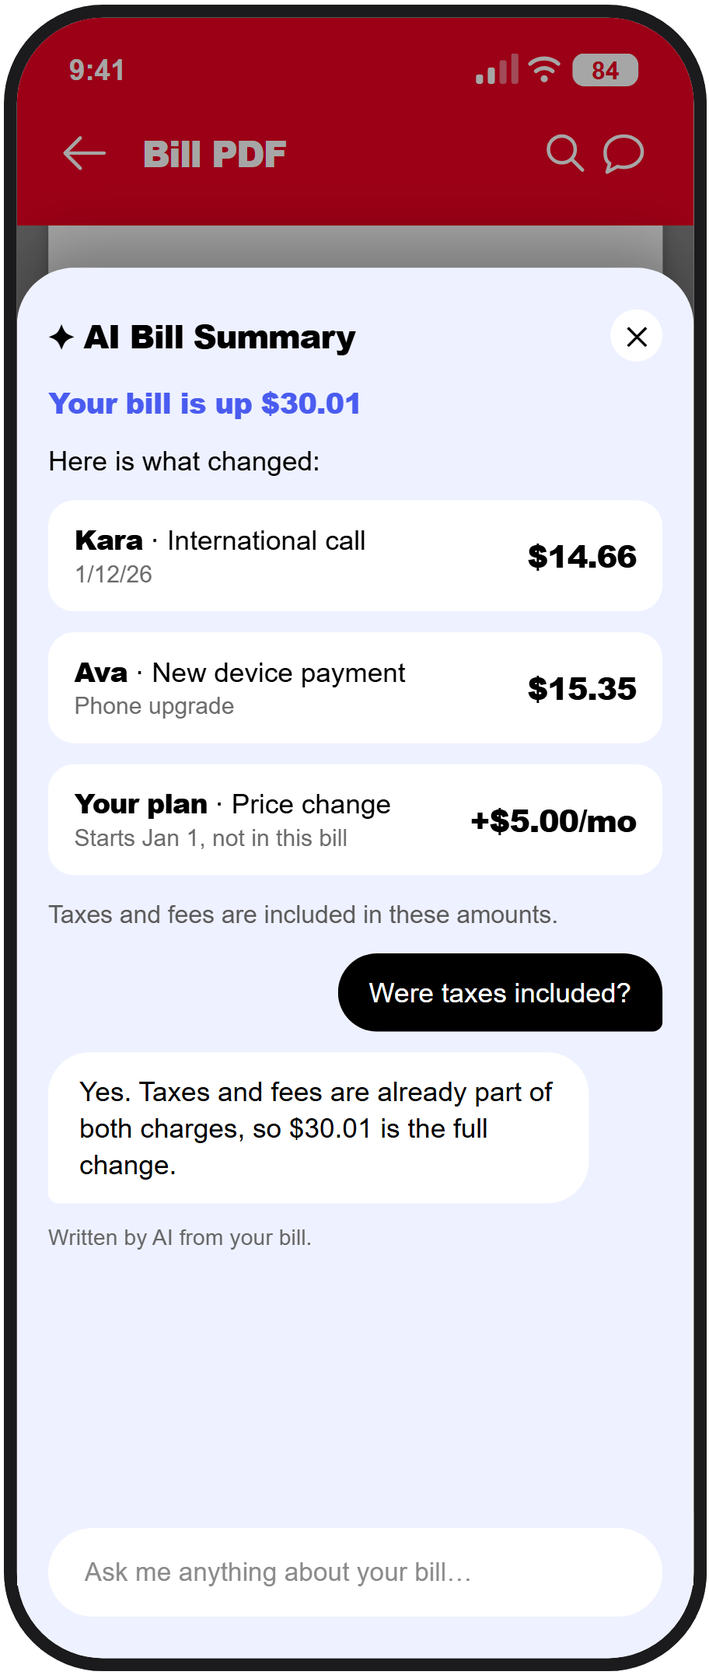
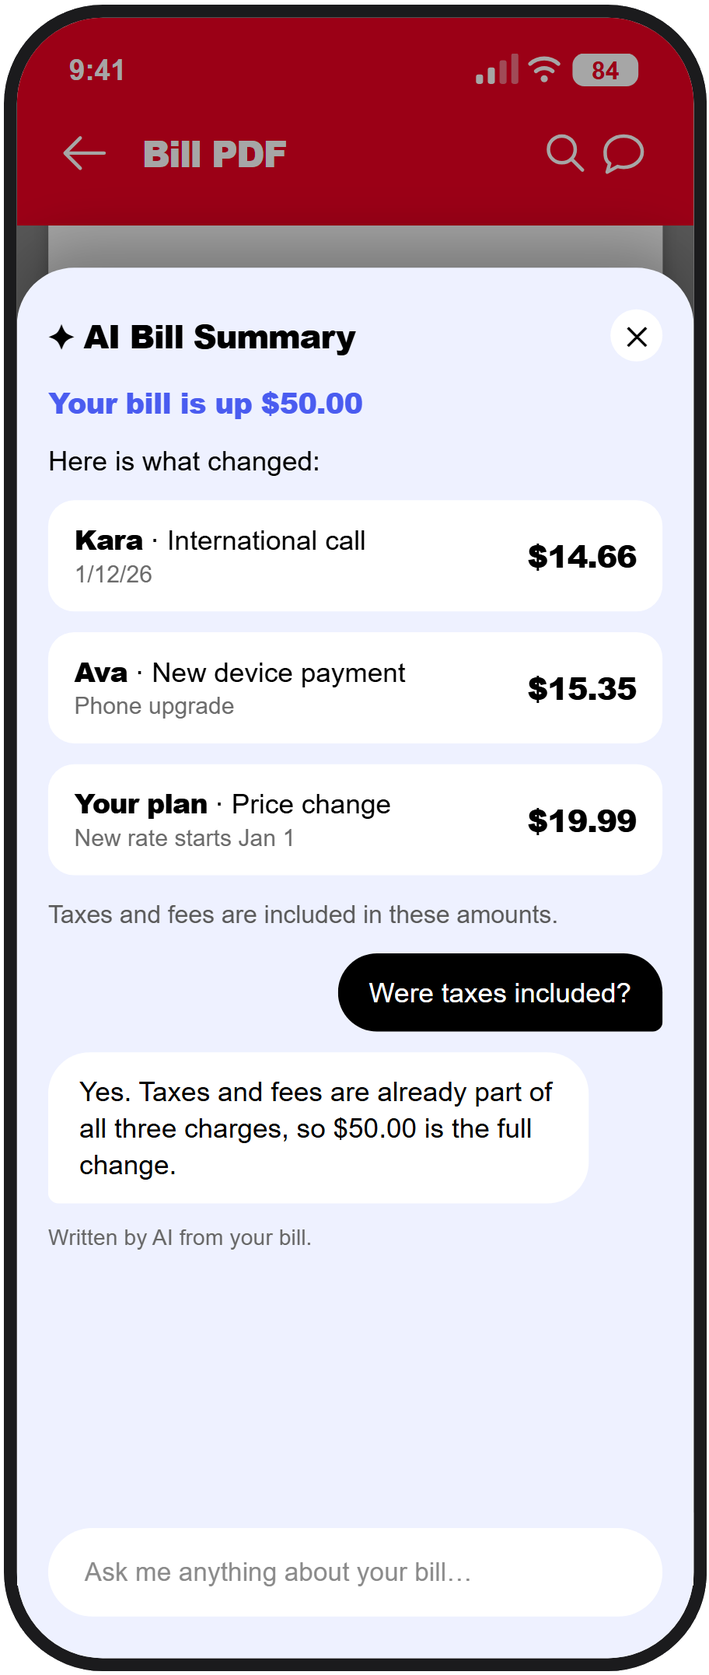
Bill increase now \.00 with January plan price change
Copilot-Session: d03eeb52-1bb5-4adc-a6b2-1b01bb792acd

diff --git a/verizon.html b/verizon.html
@@ -19,7 +19,7 @@
   <a class="back" href="index.html#work">← All work</a>
   <p class="eyebrow" style="margin-top:2rem">Verizon · AI · Telecom · Sponsored project</p>
   <h1 class="split">Explaining the bill: AI for billing transparency</h1>
-  <p class="summary reveal">"Why is this bill $30 more than last month?" Customers can't get a simple answer from phone providers today. The AI Bill Summary explains each change in plain language, and 87.5% of testers were satisfied.</p>
+  <p class="summary reveal">"Why is this bill $50 more than last month?" Customers can't get a simple answer from phone providers today. The AI Bill Summary explains each change in plain language, and 87.5% of testers were satisfied.</p>
 
   <dl class="meta reveal">
     <div><dt>Role</dt><dd>Project manager &amp; UX researcher</dd></div>
@@ -34,13 +34,13 @@
   <h2 class="reveal">Overview</h2>
   <div class="ov-split">
   <div><p class="reveal">Verizon customers struggle to find billing details, make sense of the numbers, and get past the jargon. A team of seven interdisciplinary designers (UX, UI and more) partnered with Verizon's Experience Design team to answer one question: <b>how can AI improve the way customers understand their bill?</b></p><p class="reveal">Over 16 weeks the team researched the problem across four carriers, designed an AI-powered bill experience, and tested it with 16 people in a Figma prototype. The work moved from open exploration to one focused bet: make the bill explain itself.</p></div>
-  <div class="ovs reveal" role="img" aria-label="Today the Verizon bill shows $262.82 with no explanation of the change. The goal is a bill that explains an increase of $30.01 in plain language."><div class="ovp"><div class="ovh"><div><small>Verizon today</small><h5>Your bill</h5></div></div><div class="ovl"><span>Total due<em>$262.82</em></span><span>Change from last month<em>Not explained</em></span><span class="no">Plain-language summary<em>Not available</em></span></div></div><div class="ovarr" aria-hidden="true"><i></i></div><div class="ovp on"><div class="ovh"><div><small>The goal</small><h5>A bill that explains itself</h5></div></div><div class="ovr"><span class="k">What changed</span><span class="v">+$30.01 from last month</span><span class="chip">Explained</span></div><div class="ovr"><span class="k">Why</span><span class="v">International call and a new device payment</span><span class="chip">Plain language</span></div><div class="ovr"><span class="k">Who</span><span class="v">Kara's line, +$14.66</span><span class="chip ok">Per member</span></div><div class="ovf">One tap from the home screen to the answer.</div></div></div>
+  <div class="ovs reveal" role="img" aria-label="Today the Verizon bill shows $282.81 with no explanation of the change. The goal is a bill that explains an increase of $50.00 in plain language."><div class="ovp"><div class="ovh"><div><small>Verizon today</small><h5>Your bill</h5></div></div><div class="ovl"><span>Total due<em>$282.81</em></span><span>Change from last month<em>Not explained</em></span><span class="no">Plain-language summary<em>Not available</em></span></div></div><div class="ovarr" aria-hidden="true"><i></i></div><div class="ovp on"><div class="ovh"><div><small>The goal</small><h5>A bill that explains itself</h5></div></div><div class="ovr"><span class="k">What changed</span><span class="v">+$50.00 from last month</span><span class="chip">Explained</span></div><div class="ovr"><span class="k">Why</span><span class="v">International call and a new device payment</span><span class="chip">Plain language</span></div><div class="ovr"><span class="k">Who</span><span class="v">Kara, Ava and your plan</span><span class="chip ok">Per member</span></div><div class="ovf">One tap from the home screen to the answer.</div></div></div>
   </div>
 
   <h2 class="reveal">The Problem</h2>
   <div class="problem-split">
   <p class="reveal">Verizon bills mix taxes, device payments, and one-time fees, and customers can't tell what changed or why. Confusion leads to frustration and support calls. The AI help that exists today gives generic answers that aren't tied to the bill and sends people to broad FAQ pages, so the charges stay unexplained. Our persona Jason says it bluntly: <i>"If I can't understand my bill, I'll just switch providers."</i></p>
-  <div class="wph old reveal"><div class="screens"><figure><div class="phone"><div class="hd"><div class="st"><span>9:41</span><span>&#9679;&#9679;&#9679; &#9646;</span></div><div class="nav">&larr;<span>Bill overview</span><em>&#8981;</em></div></div><div class="body"><div class="whitetop"><div class="big">Your current balance<br>$262.82</div><div class="btns"><span class="pbtn">Pay bill</span><span class="obtn">Manage Auto Pay</span></div></div><div class="card"><div class="row"><b>Your bill increased by $30.01.</b><span class="arr">&rarr;</span></div></div><div class="card"><div class="row"><b>Bill history</b><small style="text-decoration:underline;color:#000">Review history</small></div><div class="hist"><i style="height:24px"></i><i style="height:24px"></i><i style="height:24px"></i><i class="vzmax" style="height:32px"></i></div><div class="hl"><span>Oct<b>$232.81</b></span><span>Nov<b>$232.81</b></span><span>Dec<b>$232.81</b></span><span class="vzmax">Jan<b>$262.82</b></span></div></div></div><div class="tabs"><span><i></i>Me</span><span><i></i>Mobile</span><span><i></i>Home</span><span><i></i>Shop</span><span><i></i>Support</span></div></div></figure><figure><div class="phone"><div class="hd"><div class="st"><span>9:41</span><span>&#9679;&#9679;&#9679; &#9646;</span></div><div class="nav">&larr;<span>Virtual assistant</span><em>&#10005;</em></div></div><div class="body" style="background:#fff;gap:10px"><div class="oc-me">Why is this bill $30 more than last month?</div><div class="oc-bot">Here are some billing FAQs that may help.</div><div class="oc-faq"><span>Understanding your bill</span><span>How do I read my bill?</span><span>Why did my bill change?</span><span>View all billing FAQs</span></div></div><div class="tabs"><span><i></i>Me</span><span><i></i>Mobile</span><span><i></i>Home</span><span><i></i>Shop</span><span><i></i>Support</span></div></div></figure></div></div>
+  <div class="wph old reveal"><div class="screens"><figure><div class="phone"><div class="hd"><div class="st"><span>9:41</span><span>&#9679;&#9679;&#9679; &#9646;</span></div><div class="nav">&larr;<span>Bill overview</span><em>&#8981;</em></div></div><div class="body"><div class="whitetop"><div class="big">Your current balance<br>$282.81</div><div class="btns"><span class="pbtn">Pay bill</span><span class="obtn">Manage Auto Pay</span></div></div><div class="card"><div class="row"><b>Your bill increased by $50.00.</b><span class="arr">&rarr;</span></div></div><div class="card"><div class="row"><b>Bill history</b><small style="text-decoration:underline;color:#000">Review history</small></div><div class="hist"><i style="height:24px"></i><i style="height:24px"></i><i style="height:24px"></i><i class="vzmax" style="height:32px"></i></div><div class="hl"><span>Oct<b>$232.81</b></span><span>Nov<b>$232.81</b></span><span>Dec<b>$232.81</b></span><span class="vzmax">Jan<b>$282.81</b></span></div></div></div><div class="tabs"><span><i></i>Me</span><span><i></i>Mobile</span><span><i></i>Home</span><span><i></i>Shop</span><span><i></i>Support</span></div></div></figure><figure><div class="phone"><div class="hd"><div class="st"><span>9:41</span><span>&#9679;&#9679;&#9679; &#9646;</span></div><div class="nav">&larr;<span>Virtual assistant</span><em>&#10005;</em></div></div><div class="body" style="background:#fff;gap:10px"><div class="oc-me">Why is this bill $50 more than last month?</div><div class="oc-bot">Here are some billing FAQs that may help.</div><div class="oc-faq"><span>Understanding your bill</span><span>How do I read my bill?</span><span>Why did my bill change?</span><span>View all billing FAQs</span></div></div><div class="tabs"><span><i></i>Me</span><span><i></i>Mobile</span><span><i></i>Home</span><span><i></i>Shop</span><span><i></i>Support</span></div></div></figure></div></div>
   </div>
 
   <h2 class="reveal">Process</h2>
@@ -86,25 +86,25 @@
     <li><b>Bill PDF with AI:</b> highlighted line items you can click, plus an "Ask me anything about your bill" input.</li>
     <li><b>Home shortcut:</b> a balance snapshot with one tap into the breakdown and the AI.</li>
   </ul>
-  <div class="walk"><div class="wstep reveal"><div class="wtxt"><span>01</span><h4>See who caused the change</h4><p>The Bill Breakdown opens with the trend and a short AI summary, then scrolls down to a per-member split and the biggest change.</p></div><div class="wph"><div class="screens"><figure><div class="phone sp"><div class="hd"><div class="st"><span>9:41</span><span>&#9679;&#9679;&#9679; &#9646;</span></div><div class="nav">&larr;<span>Bill Breakdown</span><em>&#8981;</em></div></div><div class="body"><div class="card"><b>Your Current Balance</b><div class="lg">$262.82 <span class="up">&#8599; $30.01</span></div><div class="sub">Payment will process on <b>2/6/26</b></div><div class="brow"><span>Pay Bill</span><span>Manage Auto Pay</span></div></div>
-          <div class="card"><b>Monthly Overview</b><div class="hist"><i style="height:55px"></i><i style="height:55px"></i><i style="height:55px"></i><i class="vzmax" style="height:62px"></i></div><div class="hl"><span>Oct<b>$232.81</b></span><span>Nov<b>$232.81</b></span><span>Dec<b>$232.81</b></span><span class="vzmax">Jan<b>$262.82</b></span></div></div>
+  <div class="walk"><div class="wstep reveal"><div class="wtxt"><span>01</span><h4>See who caused the change</h4><p>The Bill Breakdown opens with the trend and a short AI summary, then scrolls down to a per-member split and the biggest change.</p></div><div class="wph"><div class="screens"><figure><div class="phone sp"><div class="hd"><div class="st"><span>9:41</span><span>&#9679;&#9679;&#9679; &#9646;</span></div><div class="nav">&larr;<span>Bill Breakdown</span><em>&#8981;</em></div></div><div class="body"><div class="card"><b>Your Current Balance</b><div class="lg">$282.81 <span class="up">&#8599; $50.00</span></div><div class="sub">Payment will process on <b>2/6/26</b></div><div class="brow"><span>Pay Bill</span><span>Manage Auto Pay</span></div></div>
+          <div class="card"><b>Monthly Overview</b><div class="hist"><i style="height:55px"></i><i style="height:55px"></i><i style="height:55px"></i><i class="vzmax" style="height:62px"></i></div><div class="hl"><span>Oct<b>$232.81</b></span><span>Nov<b>$232.81</b></span><span>Dec<b>$232.81</b></span><span class="vzmax">Jan<b>$282.81</b></span></div></div>
           <div class="aicard"><div class="t">&#10022; AI Bill Summary</div><p>Your bill went up because Kara made an international call and Ava upgraded her phone.</p><a>View full AI breakdown &rarr;</a></div>
           <div class="faq">How can I lower my bill?<span>&#8964;</span></div><div class="faq">Why did my bill change?<span>&#8964;</span></div><div class="faq">What are surcharges &amp; fees?<span>&#8964;</span></div>
           <div class="card pie"><b>By Member</b><div class="mem" style="margin-top:8px"><div class="donut" role="img" aria-label="Bill share: Kara 28%, Ava 28%, Sarah 22%, Lizzy 22%"></div><ul><li style="--c:#ee0022">Kara 28%</li><li style="--c:#1a1a1a">Ava 28%</li><li style="--c:#8d9094">Sarah 22%</li><li style="--c:#ffbc3d">Lizzy 22%</li></ul></div></div>
-          <div class="aicard"><div class="t">&#10022; Kara's Bill Summary</div><p>Kara's line rose $14.66. A key reason may have been:</p><ul><li>an international phone call on 1/12/26</li></ul><a>View full AI breakdown &rarr;</a></div></div><div class="tabs"><span><i></i>Me</span><span><i></i>Mobile</span><span><i></i>Home</span><span><i></i>Shop</span><span><i></i>Support</span></div></div><figcaption>The trend and the AI summary, up top</figcaption></figure><figure><div class="phone sp"><div class="hd"><div class="st"><span>9:41</span><span>&#9679;&#9679;&#9679; &#9646;</span></div><div class="nav">&larr;<span>Bill Breakdown</span><em>&#8981;</em></div></div><div class="body"><div class="scrollup"><div class="card"><b>Your Current Balance</b><div class="lg">$262.82 <span class="up">&#8599; $30.01</span></div><div class="sub">Payment will process on <b>2/6/26</b></div><div class="brow"><span>Pay Bill</span><span>Manage Auto Pay</span></div></div>
-          <div class="card"><b>Monthly Overview</b><div class="hist"><i style="height:55px"></i><i style="height:55px"></i><i style="height:55px"></i><i class="vzmax" style="height:62px"></i></div><div class="hl"><span>Oct<b>$232.81</b></span><span>Nov<b>$232.81</b></span><span>Dec<b>$232.81</b></span><span class="vzmax">Jan<b>$262.82</b></span></div></div>
+          <div class="aicard"><div class="t">&#10022; Kara's Bill Summary</div><p>Kara's line rose $14.66. A key reason may have been:</p><ul><li>an international phone call on 1/12/26</li></ul><a>View full AI breakdown &rarr;</a></div></div><div class="tabs"><span><i></i>Me</span><span><i></i>Mobile</span><span><i></i>Home</span><span><i></i>Shop</span><span><i></i>Support</span></div></div><figcaption>The trend and the AI summary, up top</figcaption></figure><figure><div class="phone sp"><div class="hd"><div class="st"><span>9:41</span><span>&#9679;&#9679;&#9679; &#9646;</span></div><div class="nav">&larr;<span>Bill Breakdown</span><em>&#8981;</em></div></div><div class="body"><div class="scrollup"><div class="card"><b>Your Current Balance</b><div class="lg">$282.81 <span class="up">&#8599; $50.00</span></div><div class="sub">Payment will process on <b>2/6/26</b></div><div class="brow"><span>Pay Bill</span><span>Manage Auto Pay</span></div></div>
+          <div class="card"><b>Monthly Overview</b><div class="hist"><i style="height:55px"></i><i style="height:55px"></i><i style="height:55px"></i><i class="vzmax" style="height:62px"></i></div><div class="hl"><span>Oct<b>$232.81</b></span><span>Nov<b>$232.81</b></span><span>Dec<b>$232.81</b></span><span class="vzmax">Jan<b>$282.81</b></span></div></div>
           <div class="aicard"><div class="t">&#10022; AI Bill Summary</div><p>Your bill went up because Kara made an international call and Ava upgraded her phone.</p><a>View full AI breakdown &rarr;</a></div>
           <div class="faq">How can I lower my bill?<span>&#8964;</span></div><div class="faq">Why did my bill change?<span>&#8964;</span></div><div class="faq">What are surcharges &amp; fees?<span>&#8964;</span></div>
           <div class="card pie"><b>By Member</b><div class="mem" style="margin-top:8px"><div class="donut" role="img" aria-label="Bill share: Kara 28%, Ava 28%, Sarah 22%, Lizzy 22%"></div><ul><li style="--c:#ee0022">Kara 28%</li><li style="--c:#1a1a1a">Ava 28%</li><li style="--c:#8d9094">Sarah 22%</li><li style="--c:#ffbc3d">Lizzy 22%</li></ul></div></div>
           <div class="aicard"><div class="t">&#10022; Kara's Bill Summary</div><p>Kara's line rose $14.66. A key reason may have been:</p><ul><li>an international phone call on 1/12/26</li></ul><a>View full AI breakdown &rarr;</a></div></div></div><div class="tabs"><span><i></i>Me</span><span><i></i>Mobile</span><span><i></i>Home</span><span><i></i>Shop</span><span><i></i>Support</span></div></div><figcaption>Who drove the change, further down</figcaption></figure></div></div></div><div class="wstep reveal"><div class="wtxt"><span>02</span><h4>Ask about any charge</h4><p>The familiar PDF stays. One tap on the sparkle opens the AI Bill Summary, which explains why the bill changed in plain language. You can then ask anything about it.</p></div><div class="wph"><div class="screens"><figure><div class="phone sp"><div class="hd"><div class="st"><span>9:41</span><span>&#9679;&#9679;&#9679; &#9646;</span></div><div class="nav">&larr;<span>Bill PDF</span><em>&#8981;</em></div></div><div class="body" style="background:#868686"><div class="paper"><div class="meta"><div><div class="v">verizon</div><div class="addr">SARAH M. LEE<br>123 MAPLE AVE<br>ANYTOWN, IN 46000</div></div><div><div class="acct"><b>Account:</b> 123456789-00001<br><b>Invoice:</b> 1234567890<br><b>Billing period:</b> Dec 29 - Jan 28</div><div class="q"><b>Questions about your bill?</b><br>verizon.com/support<br>800-922-0204</div></div></div>
-          <div class="snap"><span class="ttl">Snapshot of your bill</span><div><span>Balance from last bill</span><span>$0.00</span></div><div><span>This month's charges</span><span>$262.82</span></div><div><b>Total due on Feb 6</b><b>$262.82</b></div></div></div>
-          <div class="paper"><div class="meta"><div><div class="v">verizon</div><div class="addr" style="margin:10px 0 6px">Please see back for instructions on writing to us.</div></div><div><div class="acct"><b>Bill date</b> Jan 28, 2026<br><b>Account number</b> 123456789-00001</div><div class="due">Total Amount Due<b>$262.82</b></div></div></div><div class="bars">||| ||||| || ||||| |||| ||| ||||| ||</div></div>
-          <div class="paper"><div class="meta"><div><div class="v">verizon</div></div><div><div class="acct"><b>Account:</b> 123456789-00001<br><b>Billing period:</b> Dec 29 - Jan 28</div></div></div><div class="due2">Your January bill is <b>$262.82</b></div>
-          <div class="snap lines"><span class="ttl">Bill summary by line</span><div><span>Sarah's Phone 3390</span><span>$58.20</span></div><div><span>Kara's Phone 2417</span><span>$72.87</span></div><div><span>Ava's Phone 5833</span><span>$73.55</span></div><div><span>Lizzy's Phone 4036</span><span>$58.20</span></div></div></div></div><div class="tabs"><span><i></i>Me</span><span><i></i>Mobile</span><span><i></i>Home</span><span><i></i>Shop</span><span><i></i>Support</span></div><div class="pill" aria-label="AI Bill Summary"><small>NEW</small><i>&#10022;</i></div></div><figcaption>The familiar PDF, with AI one tap away</figcaption></figure><figure><div class="phone sp"><div class="hd"><div class="st"><span>9:41</span><span>&#9679;&#9679;&#9679; &#9646;</span></div><div class="nav">&larr;<span>Bill PDF</span><em>&#8981;</em></div></div><div class="body" style="background:#868686"><div class="paper"><div class="meta"><div><div class="v">verizon</div><div class="addr">SARAH M. LEE<br>123 MAPLE AVE<br>ANYTOWN, IN 46000</div></div><div><div class="acct"><b>Account:</b> 123456789-00001<br><b>Invoice:</b> 1234567890<br><b>Billing period:</b> Dec 29 - Jan 28</div><div class="q"><b>Questions about your bill?</b><br>verizon.com/support<br>800-922-0204</div></div></div>
-          <div class="snap"><span class="ttl">Snapshot of your bill</span><div><span>Balance from last bill</span><span>$0.00</span></div><div><span>This month's charges</span><span>$262.82</span></div><div><b>Total due on Feb 6</b><b>$262.82</b></div></div></div>
-          <div class="paper"><div class="meta"><div><div class="v">verizon</div><div class="addr" style="margin:10px 0 6px">Please see back for instructions on writing to us.</div></div><div><div class="acct"><b>Bill date</b> Jan 28, 2026<br><b>Account number</b> 123456789-00001</div><div class="due">Total Amount Due<b>$262.82</b></div></div></div><div class="bars">||| ||||| || ||||| |||| ||| ||||| ||</div></div>
-          <div class="paper"><div class="meta"><div><div class="v">verizon</div></div><div><div class="acct"><b>Account:</b> 123456789-00001<br><b>Billing period:</b> Dec 29 - Jan 28</div></div></div><div class="due2">Your January bill is <b>$262.82</b></div>
-          <div class="snap lines"><span class="ttl">Bill summary by line</span><div><span>Sarah's Phone 3390</span><span>$58.20</span></div><div><span>Kara's Phone 2417</span><span>$72.87</span></div><div><span>Ava's Phone 5833</span><span>$73.55</span></div><div><span>Lizzy's Phone 4036</span><span>$58.20</span></div></div></div></div><div class="tabs"><span><i></i>Me</span><span><i></i>Mobile</span><span><i></i>Home</span><span><i></i>Shop</span><span><i></i>Support</span></div><div class="dim" style="opacity:1"></div><div class="sheet ai chatted"><h4>&#10022; AI Bill Summary <i>&#10005;</i></h4><h5>Your bill is up $30.01</h5><div>Here is what changed:</div><div class="rsn"><span><b>Kara</b> &middot; International call<small>1/12/26</small></span><b>$14.66</b></div><div class="rsn"><span><b>Ava</b> &middot; New device payment<small>Phone upgrade</small></span><b>$15.35</b></div><div class="rsn"><span><b>Your plan</b> &middot; Price change<small>Starts Jan 1, not in this bill</small></span><b>+$5.00/mo</b></div><div class="fine">Taxes and fees are included in these amounts.</div><div class="bub me chatx">Were taxes included?</div><div class="bub bot chatx">Yes. Taxes and fees are already part of both charges, so $30.01 is the full change.</div><div class="gen chatx">Written by AI from your bill.</div><div class="askin">Ask me anything about your bill&hellip;</div></div></div><figcaption>The AI explains the line, and you can keep asking</figcaption></figure></div></div></div></div>
+          <div class="snap"><span class="ttl">Snapshot of your bill</span><div><span>Balance from last bill</span><span>$0.00</span></div><div><span>This month's charges</span><span>$282.81</span></div><div><b>Total due on Feb 6</b><b>$282.81</b></div></div></div>
+          <div class="paper"><div class="meta"><div><div class="v">verizon</div><div class="addr" style="margin:10px 0 6px">Please see back for instructions on writing to us.</div></div><div><div class="acct"><b>Bill date</b> Jan 28, 2026<br><b>Account number</b> 123456789-00001</div><div class="due">Total Amount Due<b>$282.81</b></div></div></div><div class="bars">||| ||||| || ||||| |||| ||| ||||| ||</div></div>
+          <div class="paper"><div class="meta"><div><div class="v">verizon</div></div><div><div class="acct"><b>Account:</b> 123456789-00001<br><b>Billing period:</b> Dec 29 - Jan 28</div></div></div><div class="due2">Your January bill is <b>$282.81</b></div>
+          <div class="snap lines"><span class="ttl">Bill summary by line</span><div><span>Sarah's Phone 3390</span><span>$78.19</span></div><div><span>Kara's Phone 2417</span><span>$72.87</span></div><div><span>Ava's Phone 5833</span><span>$73.55</span></div><div><span>Lizzy's Phone 4036</span><span>$58.20</span></div></div></div></div><div class="tabs"><span><i></i>Me</span><span><i></i>Mobile</span><span><i></i>Home</span><span><i></i>Shop</span><span><i></i>Support</span></div><div class="pill" aria-label="AI Bill Summary"><small>NEW</small><i>&#10022;</i></div></div><figcaption>The familiar PDF, with AI one tap away</figcaption></figure><figure><div class="phone sp"><div class="hd"><div class="st"><span>9:41</span><span>&#9679;&#9679;&#9679; &#9646;</span></div><div class="nav">&larr;<span>Bill PDF</span><em>&#8981;</em></div></div><div class="body" style="background:#868686"><div class="paper"><div class="meta"><div><div class="v">verizon</div><div class="addr">SARAH M. LEE<br>123 MAPLE AVE<br>ANYTOWN, IN 46000</div></div><div><div class="acct"><b>Account:</b> 123456789-00001<br><b>Invoice:</b> 1234567890<br><b>Billing period:</b> Dec 29 - Jan 28</div><div class="q"><b>Questions about your bill?</b><br>verizon.com/support<br>800-922-0204</div></div></div>
+          <div class="snap"><span class="ttl">Snapshot of your bill</span><div><span>Balance from last bill</span><span>$0.00</span></div><div><span>This month's charges</span><span>$282.81</span></div><div><b>Total due on Feb 6</b><b>$282.81</b></div></div></div>
+          <div class="paper"><div class="meta"><div><div class="v">verizon</div><div class="addr" style="margin:10px 0 6px">Please see back for instructions on writing to us.</div></div><div><div class="acct"><b>Bill date</b> Jan 28, 2026<br><b>Account number</b> 123456789-00001</div><div class="due">Total Amount Due<b>$282.81</b></div></div></div><div class="bars">||| ||||| || ||||| |||| ||| ||||| ||</div></div>
+          <div class="paper"><div class="meta"><div><div class="v">verizon</div></div><div><div class="acct"><b>Account:</b> 123456789-00001<br><b>Billing period:</b> Dec 29 - Jan 28</div></div></div><div class="due2">Your January bill is <b>$282.81</b></div>
+          <div class="snap lines"><span class="ttl">Bill summary by line</span><div><span>Sarah's Phone 3390</span><span>$78.19</span></div><div><span>Kara's Phone 2417</span><span>$72.87</span></div><div><span>Ava's Phone 5833</span><span>$73.55</span></div><div><span>Lizzy's Phone 4036</span><span>$58.20</span></div></div></div></div><div class="tabs"><span><i></i>Me</span><span><i></i>Mobile</span><span><i></i>Home</span><span><i></i>Shop</span><span><i></i>Support</span></div><div class="dim" style="opacity:1"></div><div class="sheet ai chatted"><h4>&#10022; AI Bill Summary <i>&#10005;</i></h4><h5>Your bill is up $50.00</h5><div>Here is what changed:</div><div class="rsn"><span><b>Kara</b> &middot; International call<small>1/12/26</small></span><b>$14.66</b></div><div class="rsn"><span><b>Ava</b> &middot; New device payment<small>Phone upgrade</small></span><b>$15.35</b></div><div class="rsn"><span><b>Your plan</b> &middot; Price change<small>New rate starts Jan 1</small></span><b>$19.99</b></div><div class="fine">Taxes and fees are included in these amounts.</div><div class="bub me chatx">Were taxes included?</div><div class="bub bot chatx">Yes. Taxes and fees are already part of all three charges, so $50.00 is the full change.</div><div class="gen chatx">Written by AI from your bill.</div><div class="askin">Ask me anything about your bill&hellip;</div></div></div><figcaption>The AI explains the line, and you can keep asking</figcaption></figure></div></div></div></div>
   <p class="reveal"><a class="figma-link" href="verizon-prototype.html" target="_blank" rel="noopener">Try the interactive prototype &nearr;</a></p>
 
   <h2 class="reveal">Impact &amp; learnings</h2>

diff --git a/verizon-prototype.html b/verizon-prototype.html
@@ -83,7 +83,7 @@ html,body{margin:0;height:100%;background:linear-gradient(135deg,#fff3e8,#ffe2cc
       <section class="scr" data-n="1">
         <div class="hd"><div class="st"><span>9:41</span><span>●</span></div><div class="brand">verizon<span>⌕</span></div><div class="vzmax">Welcome back, Sarah.</div><small>Thank you for being a loyal customer.</small></div>
         <div class="body"><div class="chips"><span class="chip ai">✦</span><span class="chip">Profile &amp; settings</span><span class="chip">My offers</span><span class="chip">Bill overview</span></div>
-          <div class="card"><b>Auto Pay is on</b><div class="lg">Your bill is $262.82</div><div class="sub up">↗ $30.01 more than last month</div><div class="sub">Payment will process on 2/6/26</div><div class="btns"><span class="obtn">Manage Auto Pay</span><span class="obtn ai" id="g1" data-go="3">✦ What changed</span></div></div>
+          <div class="card"><b>Auto Pay is on</b><div class="lg">Your bill is $282.81</div><div class="sub up">↗ $50.00 more than last month</div><div class="sub">Payment will process on 2/6/26</div><div class="btns"><span class="obtn">Manage Auto Pay</span><span class="obtn ai" id="g1" data-go="3">✦ What changed</span></div></div>
           <div class="card save"><div><b>$18.05 total savings</b>Review savings on your bill from Dec 29 - Jan 28.</div></div>
           <div class="card offer"><b>My Offers</b><div class="sub">Save on new lines, upgrades, and more.</div></div></div>
         <div class="tabs"><span><i></i>Me</span><span><i></i>Mobile</span><span><i></i>Home</span><span><i></i>Shop</span><span><i></i>Support</span></div>
@@ -91,8 +91,8 @@ html,body{margin:0;height:100%;background:linear-gradient(135deg,#fff3e8,#ffe2cc
       <!-- 3 Bill changes -->
       <section class="scr" data-n="3">
         <div class="hd"><div class="st"><span>9:41</span><span>●</span></div><div class="nav" data-back><span>Bill Breakdown</span><em>⌕</em></div></div>
-        <div class="body sc"><div class="card"><b>Your Current Balance</b><div class="lg">$262.82 <span class="up">&#8599; $30.01</span></div><div class="sub">Payment will process on <b>2/6/26</b></div><div class="brow"><span>Pay Bill</span><span>Manage Auto Pay</span></div></div>
-          <div class="card"><b>Monthly Overview</b><div class="hist"><i style="height:55px"></i><i style="height:55px"></i><i style="height:55px"></i><i class="vzmax" style="height:62px"></i></div><div class="hl"><span>Oct<b>$232.81</b></span><span>Nov<b>$232.81</b></span><span>Dec<b>$232.81</b></span><span class="vzmax">Jan<b>$262.82</b></span></div></div>
+        <div class="body sc"><div class="card"><b>Your Current Balance</b><div class="lg">$282.81 <span class="up">&#8599; $50.00</span></div><div class="sub">Payment will process on <b>2/6/26</b></div><div class="brow"><span>Pay Bill</span><span>Manage Auto Pay</span></div></div>
+          <div class="card"><b>Monthly Overview</b><div class="hist"><i style="height:55px"></i><i style="height:55px"></i><i style="height:55px"></i><i class="vzmax" style="height:62px"></i></div><div class="hl"><span>Oct<b>$232.81</b></span><span>Nov<b>$232.81</b></span><span>Dec<b>$232.81</b></span><span class="vzmax">Jan<b>$282.81</b></span></div></div>
           <div class="aicard"><div class="t">&#10022; AI Bill Summary</div><p>Your bill went up because Kara made an international call and Ava upgraded her phone.</p><a>View full AI breakdown &rarr;</a></div>
           <div class="faq">How can I lower my bill?<span>&#8964;</span></div><div class="faq">Why did my bill change?<span>&#8964;</span></div><div class="faq">What are surcharges &amp; fees?<span>&#8964;</span></div>
           <div class="card pie"><b>By Member</b><div class="mem" style="margin-top:8px"><div class="donut" role="img" aria-label="Bill share: Kara 28%, Ava 28%, Sarah 22%, Lizzy 22%"></div><ul><li style="--c:#ee0022">Kara 28%</li><li style="--c:#1a1a1a">Ava 28%</li><li style="--c:#8d9094">Sarah 22%</li><li style="--c:#ffbc3d">Lizzy 22%</li></ul></div></div>
@@ -103,14 +103,14 @@ html,body{margin:0;height:100%;background:linear-gradient(135deg,#fff3e8,#ffe2cc
       <section class="scr pdf" data-n="6" data-sheet="">
         <div class="hd"><div class="st"><span>9:41</span><span>●</span></div><div class="nav" data-back><span>Bill PDF</span><em>⌕</em></div></div>
         <div class="body sc" id="pdfbody" style="background:#868686"><div class="paper"><div class="meta"><div><div class="v">verizon</div><div class="addr">SARAH M. LEE<br>123 MAPLE AVE<br>ANYTOWN, IN 46000</div></div><div><div class="acct"><b>Account:</b> 123456789-00001<br><b>Invoice:</b> 1234567890<br><b>Billing period:</b> Dec 29 - Jan 28</div><div class="q"><b>Questions about your bill?</b><br>verizon.com/support<br>800-922-0204</div></div></div>
-          <div class="snap"><span class="ttl">Snapshot of your bill</span><div><span>Balance from last bill</span><span>$0.00</span></div><div><span>This month's charges</span><span>$262.82</span></div><div><b>Total due on Feb 6</b><b>$262.82</b></div></div></div>
-          <div class="paper"><div class="meta"><div><div class="v">verizon</div><div class="addr" style="margin:10px 0 6px">Please see back for instructions on writing to us.</div></div><div><div class="acct"><b>Bill date</b> Jan 28, 2026<br><b>Account number</b> 123456789-00001</div><div class="due">Total Amount Due<b>$262.82</b></div></div></div><div class="bars">||| ||||| || ||||| |||| ||| ||||| ||</div></div>
-          <div class="paper"><div class="meta"><div><div class="v">verizon</div></div><div><div class="acct"><b>Account:</b> 123456789-00001<br><b>Billing period:</b> Dec 29 - Jan 28</div></div></div><div class="due2">Your January bill is <b>$262.82</b></div>
-          <div class="snap lines"><span class="ttl">Bill summary by line</span><div><span>Sarah's Phone 3390</span><span>$58.20</span></div><div id="lizzy"><span>Kara's Phone 2417</span><span>$72.87</span></div><div><span>Ava's Phone 5833</span><span>$73.55</span></div><div><span>Lizzy's Phone 4036</span><span>$58.20</span></div></div></div></div>
+          <div class="snap"><span class="ttl">Snapshot of your bill</span><div><span>Balance from last bill</span><span>$0.00</span></div><div><span>This month's charges</span><span>$282.81</span></div><div><b>Total due on Feb 6</b><b>$282.81</b></div></div></div>
+          <div class="paper"><div class="meta"><div><div class="v">verizon</div><div class="addr" style="margin:10px 0 6px">Please see back for instructions on writing to us.</div></div><div><div class="acct"><b>Bill date</b> Jan 28, 2026<br><b>Account number</b> 123456789-00001</div><div class="due">Total Amount Due<b>$282.81</b></div></div></div><div class="bars">||| ||||| || ||||| |||| ||| ||||| ||</div></div>
+          <div class="paper"><div class="meta"><div><div class="v">verizon</div></div><div><div class="acct"><b>Account:</b> 123456789-00001<br><b>Billing period:</b> Dec 29 - Jan 28</div></div></div><div class="due2">Your January bill is <b>$282.81</b></div>
+          <div class="snap lines"><span class="ttl">Bill summary by line</span><div><span>Sarah's Phone 3390</span><span>$78.19</span></div><div id="lizzy"><span>Kara's Phone 2417</span><span>$72.87</span></div><div><span>Ava's Phone 5833</span><span>$73.55</span></div><div><span>Lizzy's Phone 4036</span><span>$58.20</span></div></div></div></div>
         <div class="tabs"><span><i></i>Me</span><span><i></i>Mobile</span><span><i></i>Home</span><span><i></i>Shop</span><span><i></i>Support</span></div>
         <div class="pill" id="g6" data-go="7" role="button" aria-label="AI Bill Summary"><small>NEW</small><i>✦</i></div>
         <div class="dim"></div>
-        <div class="sheet ai"><h4>&#10022; AI Bill Summary <i>&#10005;</i></h4><h5>Your bill is up $30.01</h5><div>Here is what changed:</div><div class="rsn"><span><b>Kara</b> &middot; International call<small>1/12/26</small></span><b>$14.66</b></div><div class="rsn"><span><b>Ava</b> &middot; New device payment<small>Phone upgrade</small></span><b>$15.35</b></div><div class="rsn"><span><b>Your plan</b> &middot; Price change<small>Starts Jan 1, not in this bill</small></span><b>+$5.00/mo</b></div><div class="fine">Taxes and fees are included in these amounts.</div><div class="bub me chatx">Were taxes included?</div><div class="bub bot chatx">Yes. Taxes and fees are already part of both charges, so $30.01 is the full change.</div><div class="gen chatx">Written by AI from your bill.</div><div class="askin" id="g7" data-go="8">Ask me anything about your bill&hellip;</div></div>
+        <div class="sheet ai"><h4>&#10022; AI Bill Summary <i>&#10005;</i></h4><h5>Your bill is up $50.00</h5><div>Here is what changed:</div><div class="rsn"><span><b>Kara</b> &middot; International call<small>1/12/26</small></span><b>$14.66</b></div><div class="rsn"><span><b>Ava</b> &middot; New device payment<small>Phone upgrade</small></span><b>$15.35</b></div><div class="rsn"><span><b>Your plan</b> &middot; Price change<small>New rate starts Jan 1</small></span><b>$19.99</b></div><div class="fine">Taxes and fees are included in these amounts.</div><div class="bub me chatx">Were taxes included?</div><div class="bub bot chatx">Yes. Taxes and fees are already part of all three charges, so $50.00 is the full change.</div><div class="gen chatx">Written by AI from your bill.</div><div class="askin" id="g7" data-go="8">Ask me anything about your bill&hellip;</div></div>
       </section>
 
       <div class="tap" id="tap"></div>
@@ -127,7 +127,7 @@ const steps=[
  {s:1,t:'g1',c:'<b>Home</b> shows the balance, the due date and one tap into the AI breakdown.'},
  {s:3,scroll:9999,t:'g3',c:'<b>Bill Breakdown</b> scrolls from the trend to who drove the change.'},
  {s:6,sheet:'',scroll:9999,t:'g6',c:'<b>Bill PDF</b> stays familiar, with AI one tap away.'},
- {s:6,sheet:'ai',scroll:9999,t:'g7',c:'<b>AI Bill Summary</b> explains the whole change, plus what is coming in January.'},
+ {s:6,sheet:'ai',scroll:9999,t:'g7',c:'<b>AI Bill Summary</b> explains the whole change in plain language.'},
  {s:6,sheet:'chat',scroll:9999,c:'<b>Ask me anything</b> and the answer appears right in the same chat.'}
 ];
 let i=0,playing=true,timer=null,token=0;
